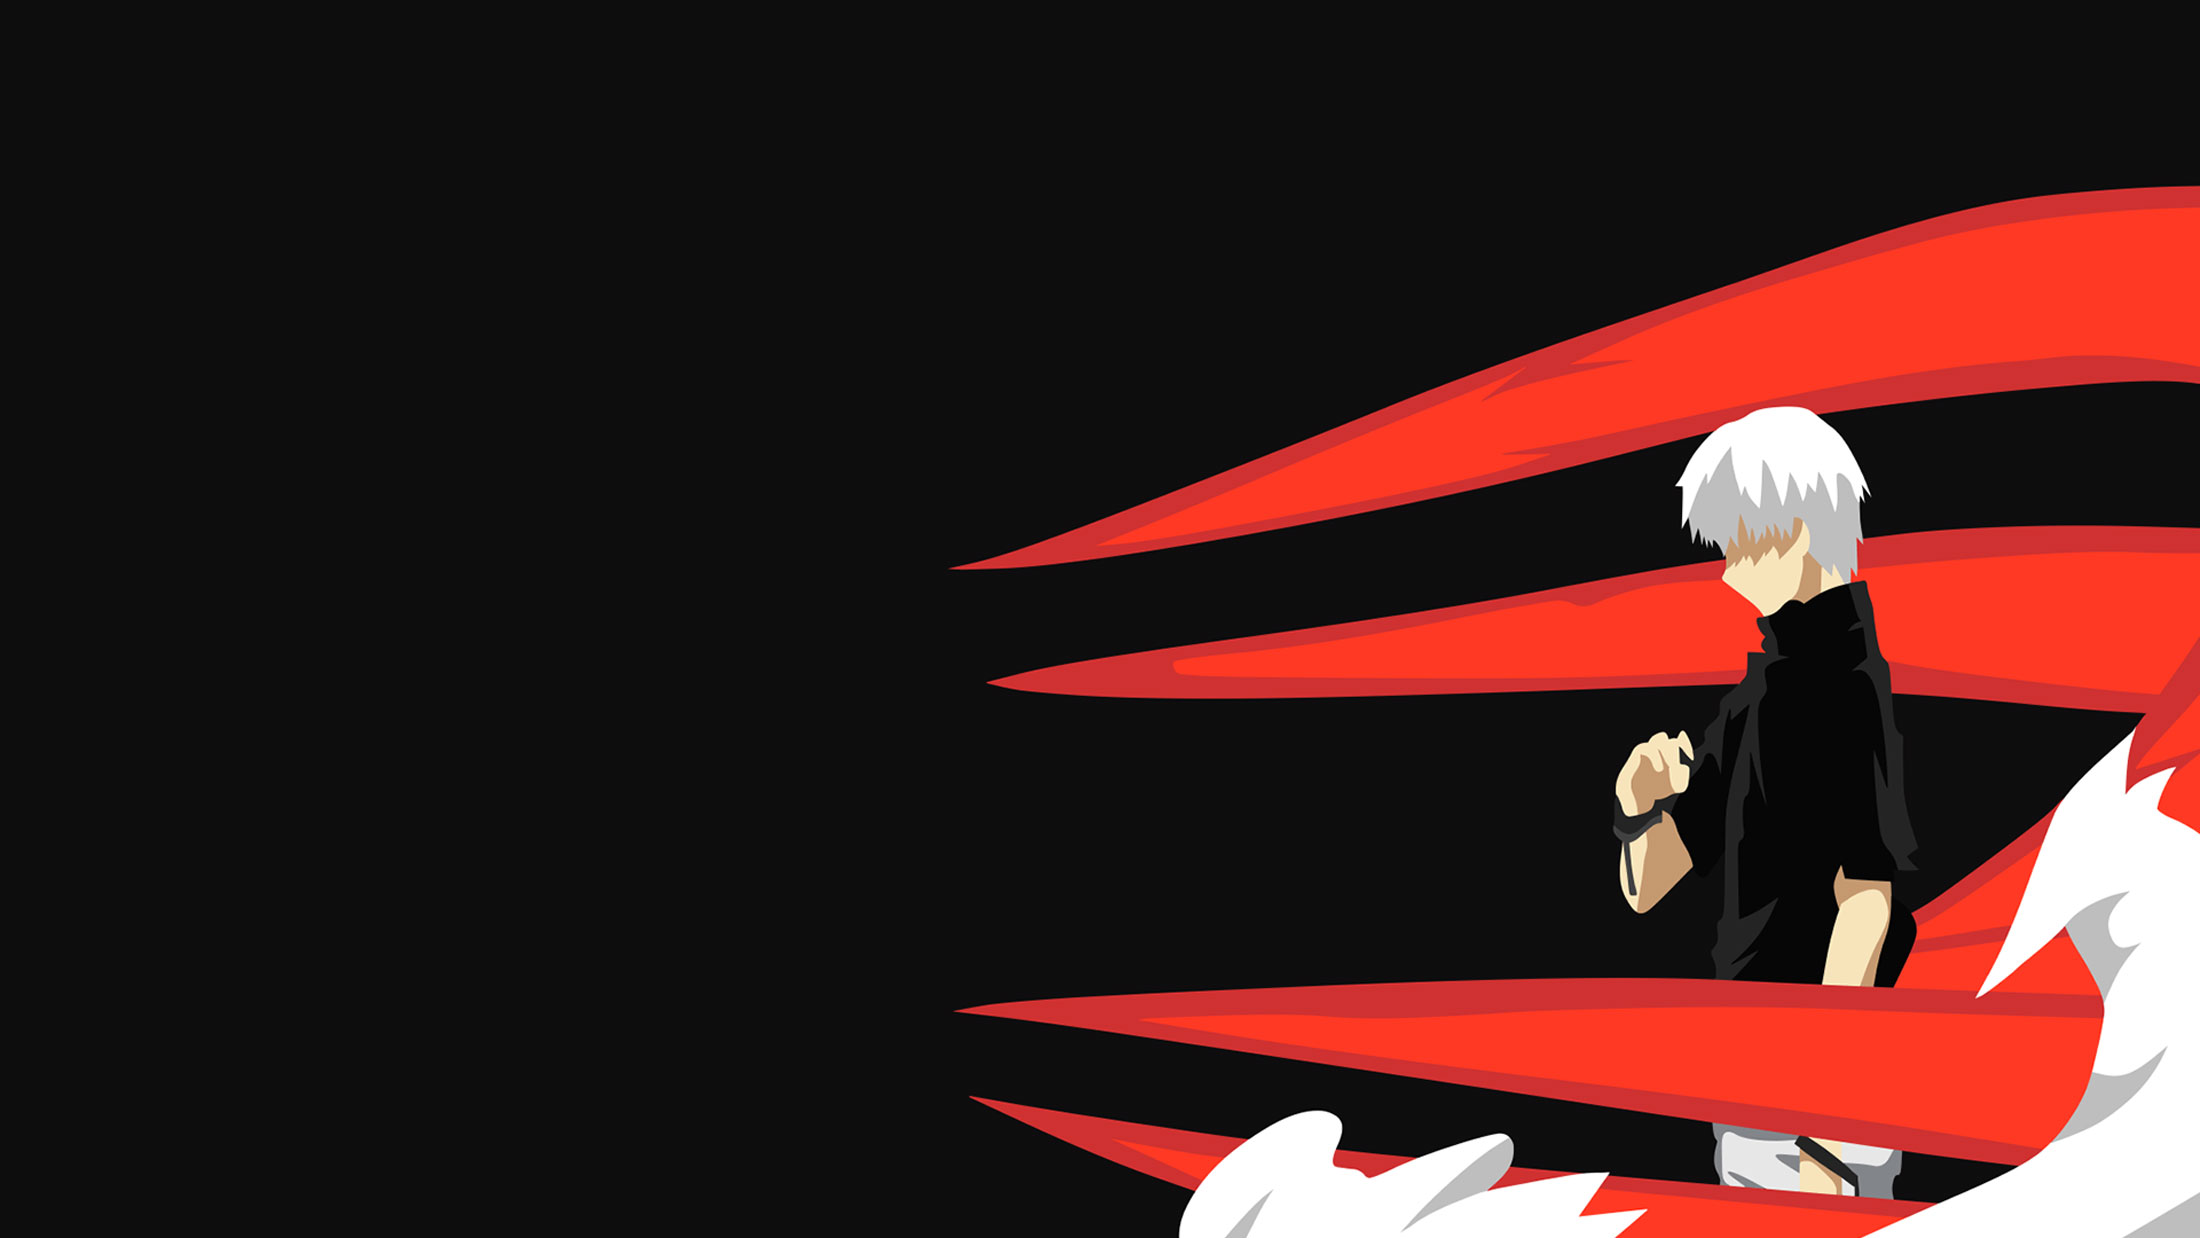
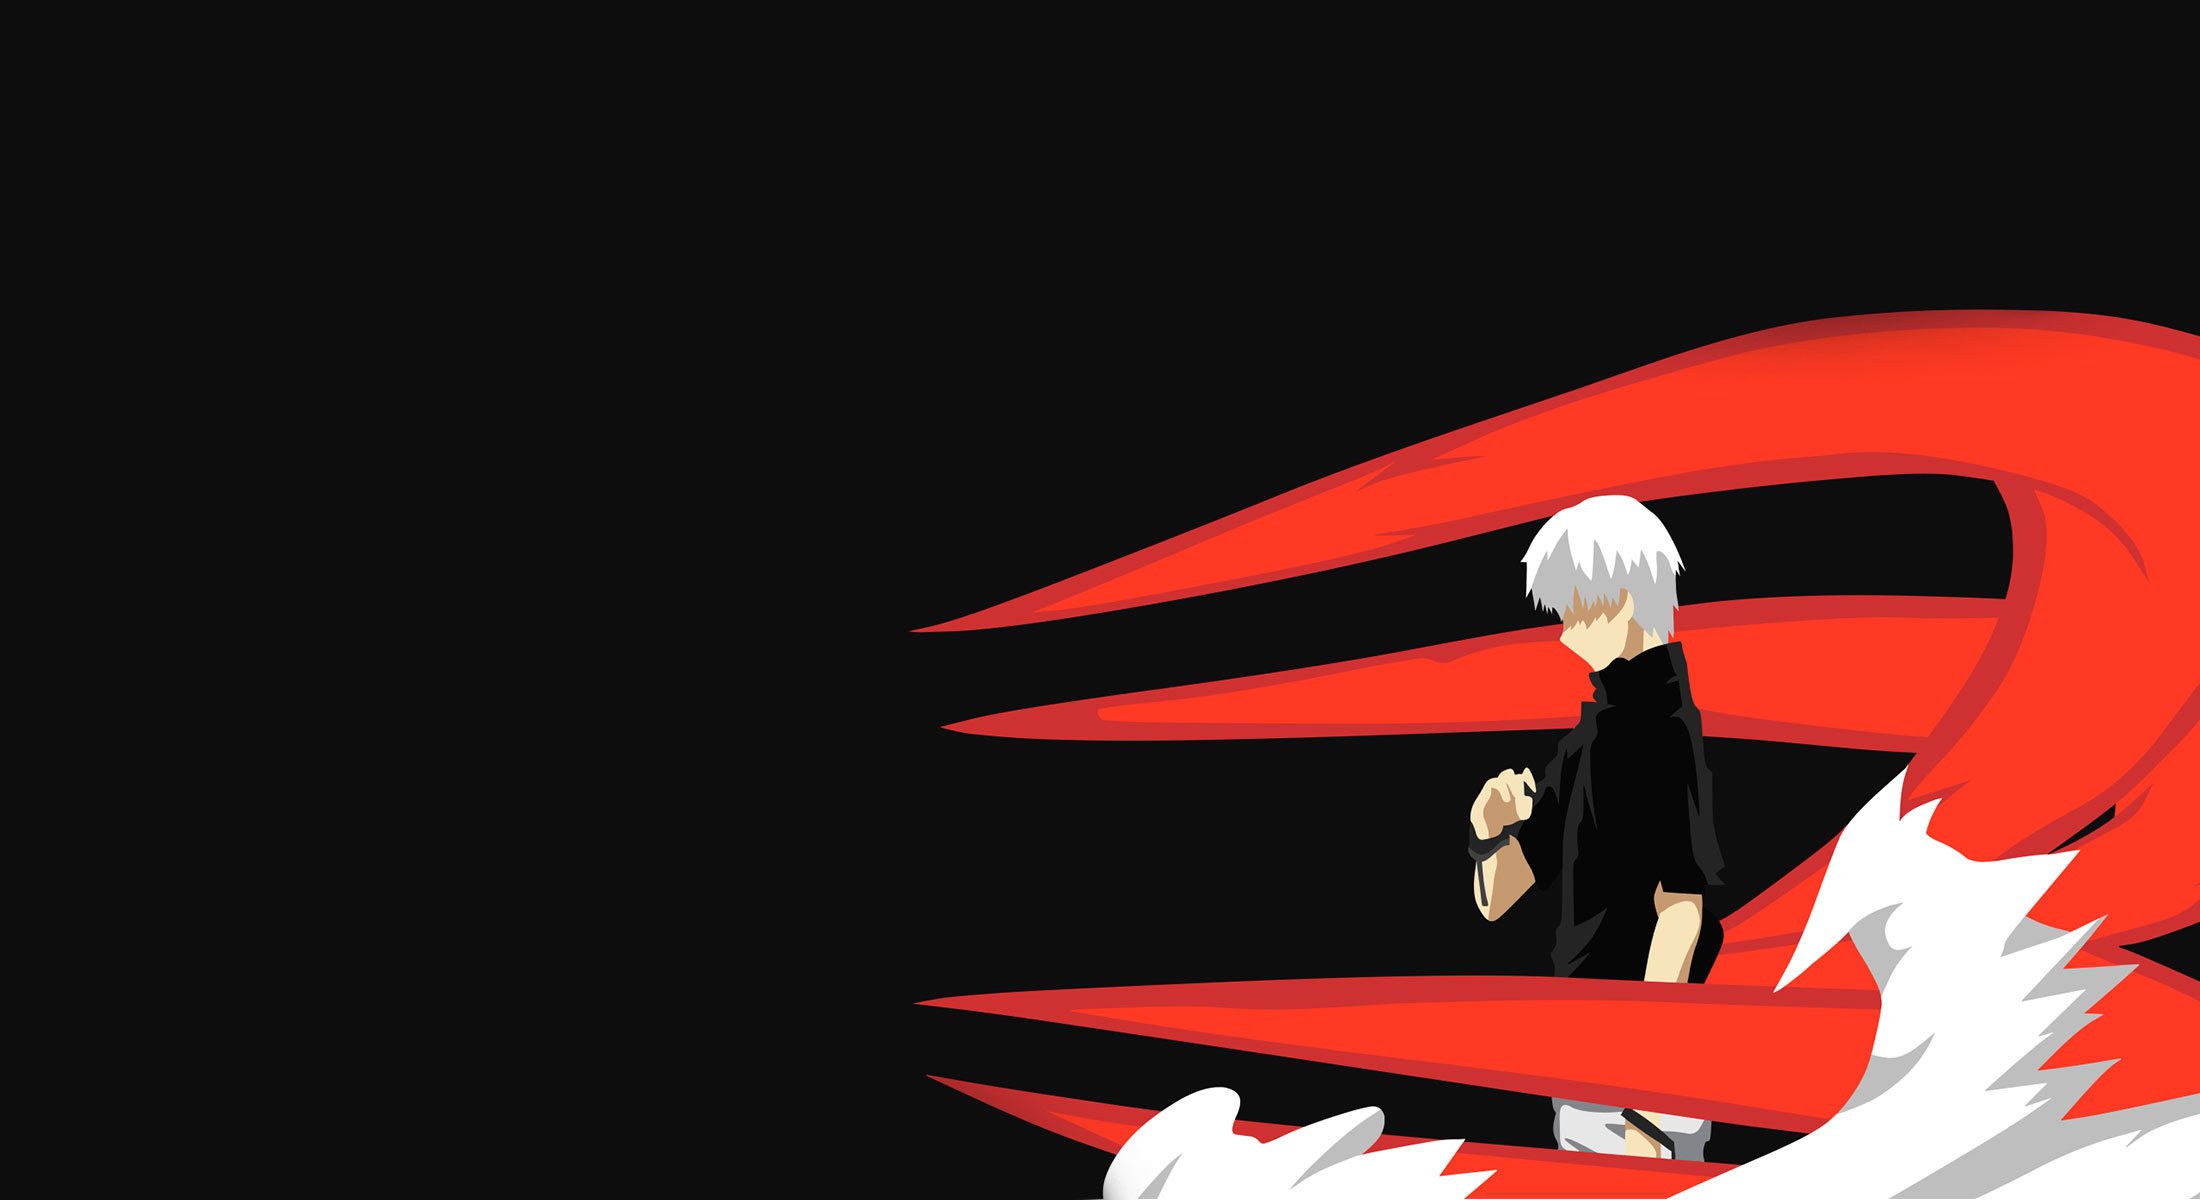
new image

Changed region(s): [[0.4018, 0.1233, 1.0, 1.0]]

diff --git a/passgen.html b/passgen.html
@@ -11,7 +11,8 @@
     <style>
         body {
             font-family: 'Montserrat', Sans-Serif;
-            background-image: url(images/tokyoghoul.jpg);;
+            background-image: url(images/tokyoghoul.jpg);
+            background-position: top right;
             background-repeat: no-repeat;
             background-color: #0d0d0d;
             padding: 25px;
